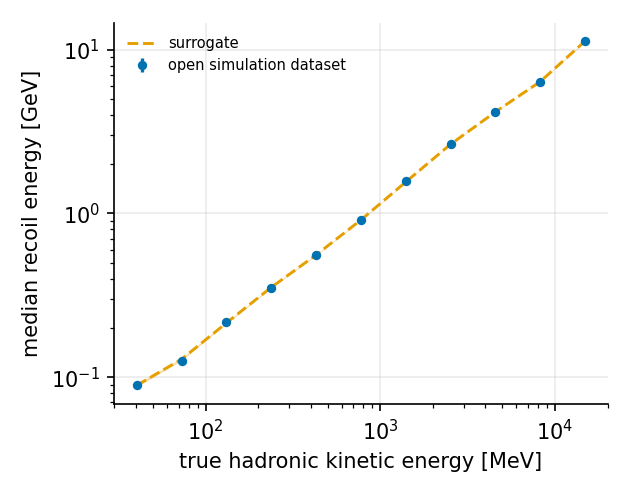
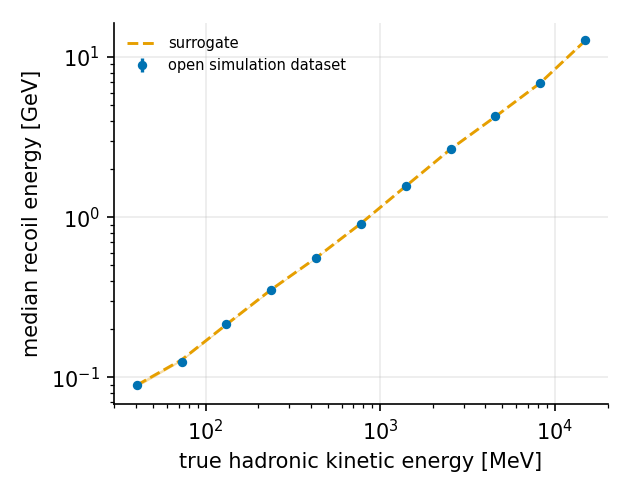
paper_fig_response: hadronic kinetic energy excludes all charged leptons (event_features' sumKE_had excludes only the mu-)
Claude-Session: https://claude.ai/code/session_01WonotUddxf69Fsc1KRUvp3

diff --git a/scripts/paper_fig_response.py b/scripts/paper_fig_response.py
@@ -26,7 +26,10 @@ if a.only_inttype: te = te[np.isin(d["intType"][te], a.only_inttype)]
 if a.subset: te = te[subset_mask(d, a.subset)[te]]
 idx = np.random.default_rng(0).permutation(te)[:a.n]
 cls, mom, mask = _pad(d, idx); X, names = event_features(cls, mom, mask, d["ctx"][idx])
-keh, kep = X[:, names.index("sumKE_had")], X[:, names.index("maxKE_p")]; kpi = np.maximum(X[:, names.index("maxKE_pip")], X[:, names.index("maxKE_pim")]); nch = d["n_charged_true"][idx].astype(int); Pt = np.linalg.norm(d["mu_true"][idx], axis=1) / 1e3
+kep = X[:, names.index("maxKE_p")]; kpi = np.maximum(X[:, names.index("maxKE_pip")], X[:, names.index("maxKE_pim")]); nch = d["n_charged_true"][idx].astype(int); Pt = np.linalg.norm(d["mu_true"][idx], axis=1) / 1e3
+from sim2reco.prep.features import class_mass
+_P = np.linalg.norm(mom, axis=-1); _m = class_mass(cls); _had = mask & ~np.isin(cls, [1, 2, 13])  # hadrons: every final-state particle but the charged leptons (mu-, e, mu+); event_features' sumKE_had excludes only the mu-
+keh = (np.where(_had, np.sqrt(_P ** 2 + _m ** 2) - _m, 0.0)).sum(1)
 Pt = np.where((d["current"][idx] == 1) & (np.abs(d["incoming"][idx]) == 14), Pt, np.nan)  # muon response only for events with a true muon (CC nu_mu and nu_mu-bar); NC and nu_e have no muon
 def summarise(reco, y, prongs, offs):
     """per-event quantities for reconstructed events: muon ratio, recoil [GeV], leading proton-fit and pion-hypothesis P [MeV] (nan if none), n prongs, n with kinematics"""
